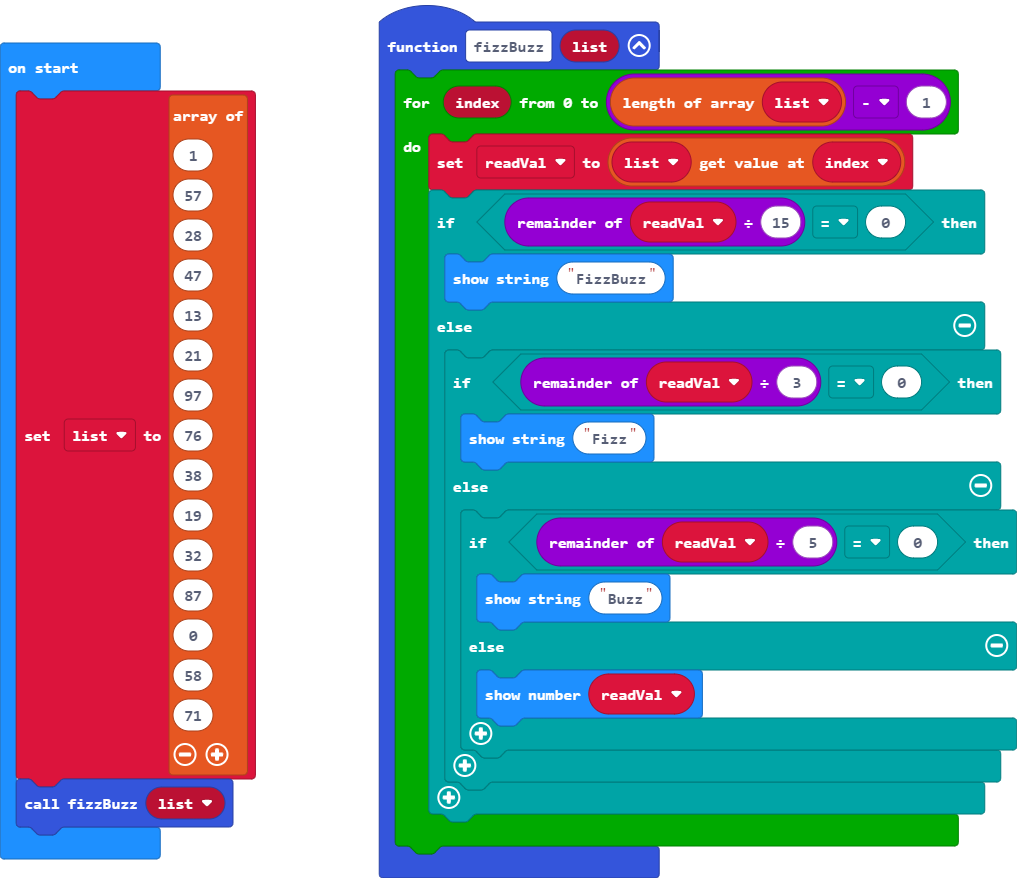
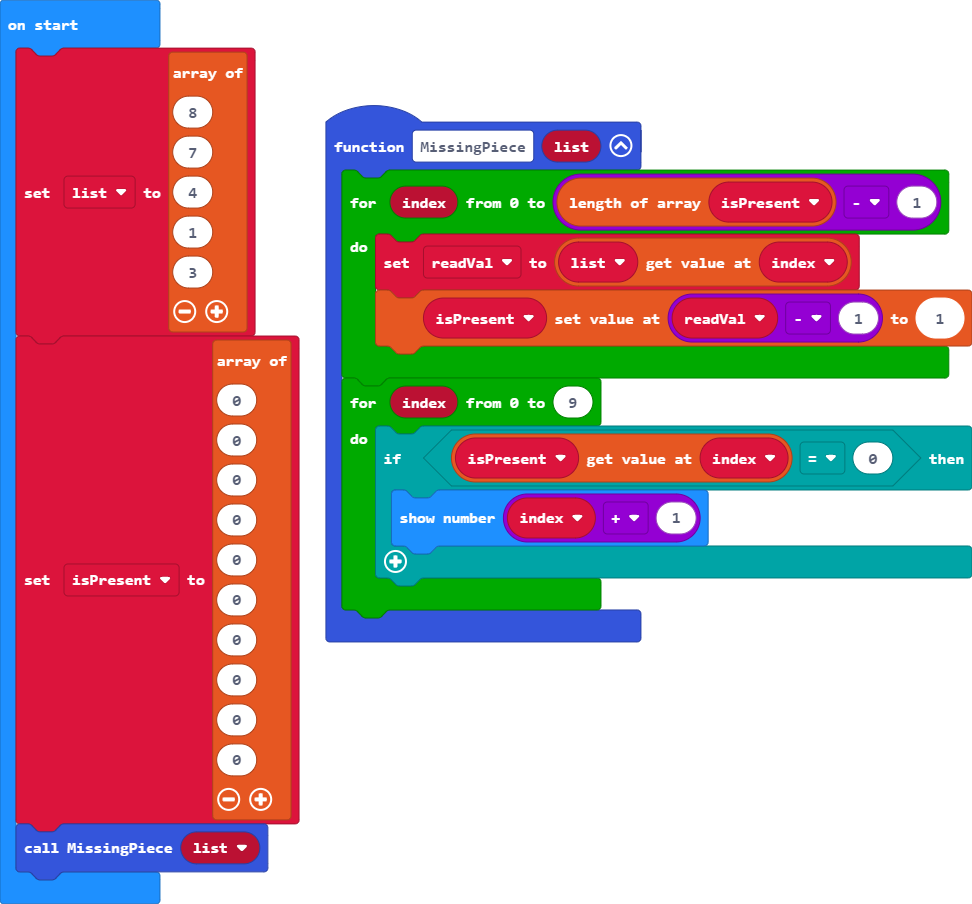
Update pxt.json, main.blocks, main.ts

diff --git a/main.ts b/main.ts
@@ -1,37 +1,33 @@
-function fizzBuzz (list: number[]) {
-    for (let index = 0; index <= list.length - 1; index++) {
+function MissingPiece (list: number[]) {
+    for (let index = 0; index <= isPresent.length - 1; index++) {
         readVal = list[index]
-        if (readVal % 15 == 0) {
-            basic.showString("FizzBuzz")
-        } else {
-            if (readVal % 3 == 0) {
-                basic.showString("Fizz")
-            } else {
-                if (readVal % 5 == 0) {
-                    basic.showString("Buzz")
-                } else {
-                    basic.showNumber(readVal)
-                }
-            }
+        isPresent[readVal - 1] = 1
+    }
+    for (let index = 0; index <= 9; index++) {
+        if (isPresent[index] == 0) {
+            basic.showNumber(index + 1)
         }
     }
 }
 let readVal = 0
+let isPresent: number[] = []
 let list = [
+8,
+7,
+4,
 1,
-57,
-28,
-47,
-13,
-21,
-97,
-76,
-38,
-19,
-32,
-87,
-0,
-58,
-71
+3
 ]
-fizzBuzz(list)
+isPresent = [
+0,
+0,
+0,
+0,
+0,
+0,
+0,
+0,
+0,
+0
+]
+MissingPiece(list)
